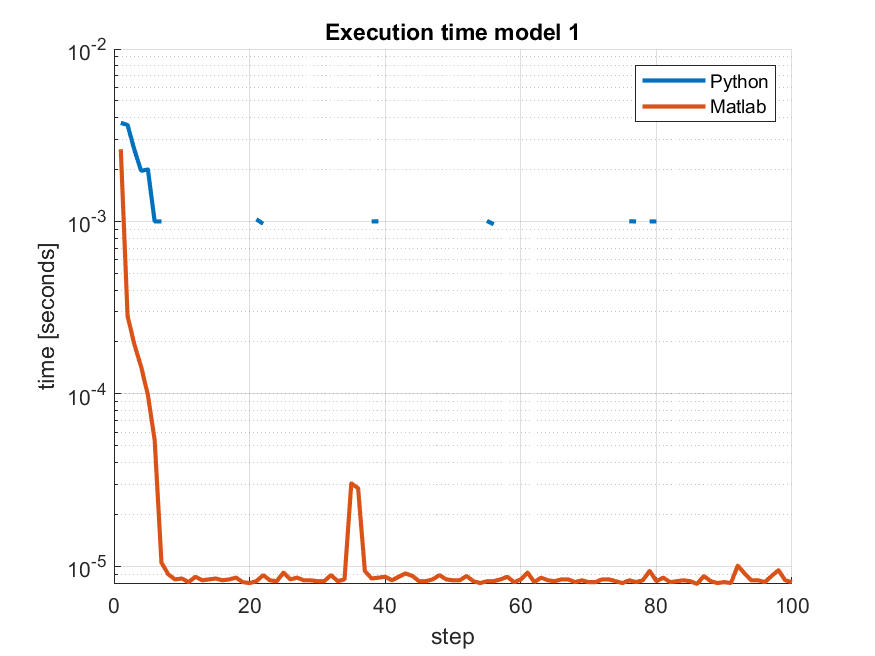
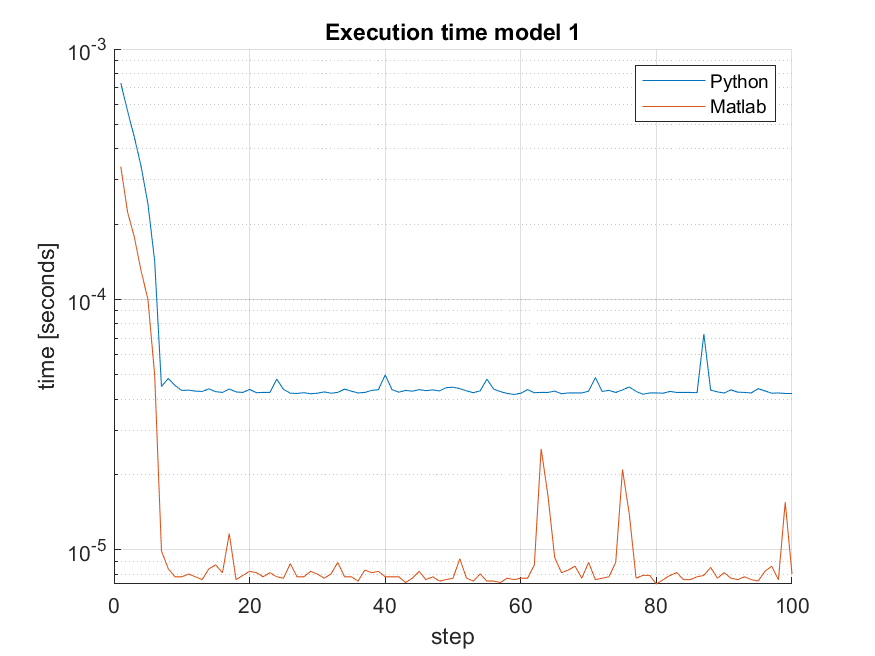
added memory profiler

diff --git a/Matlab_kode/MPClambda2sbrybt_runMail.m b/Matlab_kode/MPClambda2sbrybt_runMail.m
@@ -1,0 +1,195 @@
+tend = 100;
+%  Using the matric inversion lemma for updating inv(Q)
+%  Trying sparse implementation.
+% Version b: Always delete inactve constraint before adding new active
+% constraint.  Select largest violation of complementarity for
+% removal/addition of constraints
+% Version br: Removed unreliable LP formulation to check for infeasibility.
+%  Rely solely on the size of qdiv instead.
+% Version y: Update y as in (17) of draft paper
+% Version bryb: minor tweaks
+% Version brybt: Warmstarting from solution at previous timestep.
+% Calculating times for optimization and for cleaning Q matrix separately
+if (Model == 1)
+    xinit = [5;-2];
+elseif (Model == 2)
+    xinit = 1.0*[25.5724;25.3546;9.7892;0.2448]; %(1.0: Feasible. 1.04 Feasible. 1.1: Infeasible, (but cycles indefinitely _No, not with updated limits on qdiv).  qdiv not very small. 
+                                                 %1.5: Infeasibility caught through qdiv \approx 0. 
+elseif (Model ==3)
+  %  xinit = 0.1*randn(nx,1);
+  load xinit3
+  xinit = 4.98*xinit;   %Feasible.  One measurement violates constraints at t=0, but measurement constraints are only included from t=1.
+  %xinit = 5.0*xinit; %Infeasible
+end
+x0 = xinit;
+
+xsave = zeros(nx,tend+1);
+usave = zeros(nu,tend);
+zsave = zeros(nu,tend);
+tosave = zeros(1,tend);
+tcsave = zeros(1,tend);
+feasflag = 1;  %feasflag = 0 indicates infeasible problem.
+
+xsave(:,1)=xinit;
+
+nc = size(Gz,1);
+Hinv = inv(Hess);
+%IGi = inv(eye(nc)-Gz*Hinv*Gz');
+IGi = (eye(nc)-Gz*Hinv*Gz');
+IGis = sparse(IGi);
+hif = Hinv*f0;
+
+ %  uvec = -Hinv*Gz'*lam - hif*x0;
+  HGz = -Hinv*Gz';
+  HGzu = HGz(1:nu,:);
+  hifu = -hif(1:nu,:);
+
+actset = sparse(logical(zeros(nc,1)));
+actset0 = actset;
+Qmat0i = speye(nc);
+
+tt = tic;
+%for ik = 1:1
+for ik = 1:tend
+    %ik;
+    %Implicit MPC problem.  Hoping to do this efficiently...
+    
+    %Starting with all constraints inactive
+    to = tic;
+    
+    feasflag = false;
+    solved = false;
+    ix = 0;
+    
+    Qmat0i = speye(nc);
+    actset = actset0;
+   
+    y0 = -Sz*x0-Wz;
+    
+
+    while (~solved)
+        ix = ix +1;
+        
+        if (ix == 1)
+            y = y0;
+        else
+            y = y0-y0(iz)*vAd;
+            y0 = y;
+        end
+        
+        lam = y.*actset;
+        [i1,i1z] = min(lam);        
+        if(i1 >= 0)
+            i1 = [];
+        end
+        
+        if(~isempty(i1))
+            iz = i1z;
+            actset(iz) = 0;
+            qc = 1; % Remove constraint from active set
+        else
+            [i2,i2z] = max(y-lam);
+            if (i2 <= 0)
+                i2 = [];
+            end
+            if(~isempty(i2))
+                iz = i2z;
+                actset(iz) = 1;
+                qc = -1; % Add constraint to active set
+            else
+                iz = [];
+            end
+        end       
+        
+        if(~isempty(iz))
+                qu = IGis(:,iz);
+                vA = Qmat0i*qu;
+                qdiv = qc+vA(iz); %qc = 1/qc
+ 
+                if ((abs(qdiv) < 1e-13) | (abs(qdiv) > 1e12))
+                    toc
+                %Will only enter here (some times) when adding a new constraint    
+                % Heuristically seems like a reliable test for infeasibility
+
+                       feasflag = 0;
+                       disp('Infeasible problem detected')
+
+                       qdiv
+                       feasflag = false;
+                       break
+                end
+
+                vAd = (1/qdiv)*vA;
+                Qmat1i = Qmat0i-vAd*Qmat0i(iz,:);
+                Qmat0i = Qmat1i;                   
+        else
+            solved = true;
+            feasflag = true;
+
+        end
+        
+    end
+    tk = toc(to);
+    if (feasflag == 0)
+        break
+    end
+    
+ %   lam = actset.*y; %Pick out the positive elements in y
+    
+  %   uvec = -Hinv*Gz'*lam - hif*x0;  
+  %  u = uvec(1:nu);
+    
+    u = HGzu*lam+hifu*x0;
+        
+    % End solve implicit MPC problem
+
+    x1 = A*x0+B*u;
+
+    x0 = x1;
+    xsave(:,ik+1)=x0;
+    usave(:,ik) = u;
+    tosave(1,ik) = tk;
+    
+  % tc = tic;
+  % Qmat0i=clean(Qmat0i,1e-12);
+   % tc = toc(tc);
+   % tcsave(1,ik) = tc;
+end
+
+toc(tt)
+
+
+if (Model == 1)
+    figure(1)
+    tx = linspace(0,tend,tend+1);
+    plot(tx,xsave(1,:),'b',tx,xsave(2,:),'r')
+    title('State trajectories')
+
+    figure(2)
+    tu = linspace(0,tend-1,tend);
+    plot(tu,usave)
+    
+elseif (Model == 2)
+    ym = C*xsave;                        
+    figure(1)
+    tx = linspace(0,tend,tend+1);
+    plot(tx,ym(1,:),'b',tx,ym(2,:),'r')
+    title('Output trajectories')
+
+
+    figure(2)
+    tu = linspace(0,tend-1,tend);
+    plot(tu,usave(1,:),'b',tu,usave(2,:),'r')
+elseif (Model == 3)
+    ym = C*xsave;                        
+    figure(1)
+    tx = linspace(0,tend,tend+1);
+    plot(tx,ym(1,:),'b',tx,ym(2,:),'r',tx,ym(3,:),'k',tx,ym(4,:),'g')
+    title('Output trajectories')
+
+    figure(2)
+    tu = linspace(0,tend-1,tend);
+    plot(tu,usave(1,:),'b',tu,usave(2,:),'r',tu,usave(3,:),'k',tu,usave(4,:),'g')
+end
+
+    

diff --git a/PythonCode/MPC_run.py b/PythonCode/MPC_run.py
@@ -8,9 +8,11 @@ import datetime
 import scipy.io
 import cProfile
 
+from timeit import default_timer as timer
+
 tend = 100
 
-
+@profile
 def main():
     if (MODEL == 1):
         xinit = np.matrix([[5], [-2]])
@@ -46,44 +48,35 @@ def main():
     while_iterations1 = [] #for counting the while iterations in each step
     while_iterations2 = []
 
-    tot = time.time_ns() 
+    tot = timer()
 
     for i in range(tend):
-        start = time.time_ns()    
-        
+        start = timer()
         feasflag = False
-
         actset = np.zeros((nc,1))
         solved = False
         ix = 0
-
         Qmat0i = np.identity(nc)
-        
         y0 = np.subtract(-Sz.dot(x0), Wz)
-
-        
         while (not (solved)):
-            
             ix = ix +1
-            
             if (ix == 1): 
                 y = y0
             else:
                 y = np.subtract((y0), (y0[iz].item())*vAd)
                 y0 = y
-            
-            lam = np.multiply((y),actset) #elementvis?
+            lam = np.multiply((y),actset)
+            #i1 = min(lam)
             i1=lam.min()
             i1z = np.argmin(lam)
-
             if (i1>=0):
                 i1 = []
-
             if (i1):
                 iz = i1z
                 actset[iz] = 0 
                 qc = 1
             else:
+                #i2 = max(y-lam)
                 i2 = (y-lam).max()
                 i2z = np.argmax(y-lam)
                 if (i2 <= 0):
@@ -118,7 +111,7 @@ def main():
                 feasflag = True
         
         
-        end = time.time_ns()
+        end = timer()
         tk = end-start
         if (MODEL==1):
             while_iterations1.append(ix)
@@ -142,11 +135,11 @@ def main():
         if (MODEL ==2):
             tosave2[0, i] = tk #this is in nano seconds
 
-    end = time.time_ns()
-    total_time = end-tot
+    end_tot = timer()
+    total_time = end_tot-tot
 
     print("Total runtime s: ")
-    print(total_time/10**(9))
+    print(total_time)
             
 
     print("done")

diff --git a/Matlab_kode/plotting.m b/Matlab_kode/plotting.m
@@ -3,7 +3,7 @@ format long
 %Reading the execution time from Python Model 1
 B = readmatrix('execution_timeM1.txt');
 python_times1 = B
-python_times1 = python_times1(2:101).*10^(-9)
+python_times1 = python_times1(2:101)
 
 %Reading while iterations from Python Model 1
 W1 = readmatrix('while_iterations1.txt');
@@ -13,7 +13,7 @@ python_iterations1 = W1(2:101);
 %Reading the execution time from Python Model 2
 C = readmatrix('execution_timeM2.txt');
 python_times2 = C
-python_times2 = python_times2(2:101).*10^(-9)
+python_times2 = python_times2(2:101)
 
 %Reading while iterations from Python Model 2
 W2 = readmatrix('while_iterations2.txt');
@@ -25,9 +25,9 @@ if (Model == 1)
     f = figure("Name", "myfig");
     axes('XScale', 'linear', 'YScale', 'log')
     hold on;
-    plot(python_times1, 'LineWidth', 2);
+    plot(python_times1);
     hold on;
-    plot(tosave1, 'LineWidth', 2);
+    plot(tosave1);
     hold off;
     legend('Python','Matlab')
     title('Execution time model 1');

diff --git a/PythonCode/plots.py b/PythonCode/plots.py
@@ -2,7 +2,7 @@ import numpy as np
 from MPC_run import *
 import matplotlib.pyplot as plt
 
-PYTHONPLOTS = 0
+PYTHONPLOTS = 1
 
 
 if (MODEL ==1):
@@ -12,11 +12,10 @@ if (MODEL ==2):
     exe_time = np.matrix(tosave2) 
     iterations = while_iterations2
 
-'''
 average_iterations = sum(iterations)/len(iterations)
 print("average iterations: ")
 print(average_iterations)
-'''
+
 
 #Plotting runtime for Python algorithm 
 if (PYTHONPLOTS):

diff --git a/PythonCode/lineproftest.py b/PythonCode/lineproftest.py
@@ -1,10 +1,11 @@
 from line_profiler import LineProfiler
+from MPC_run import main
 
 lp = LineProfiler()
 
-from MPC_run import main
+
 main = lp(main)
 main()
 lp.print_stats()
-lp.dump_stats(filename='testlineprof.txt')
+
 
